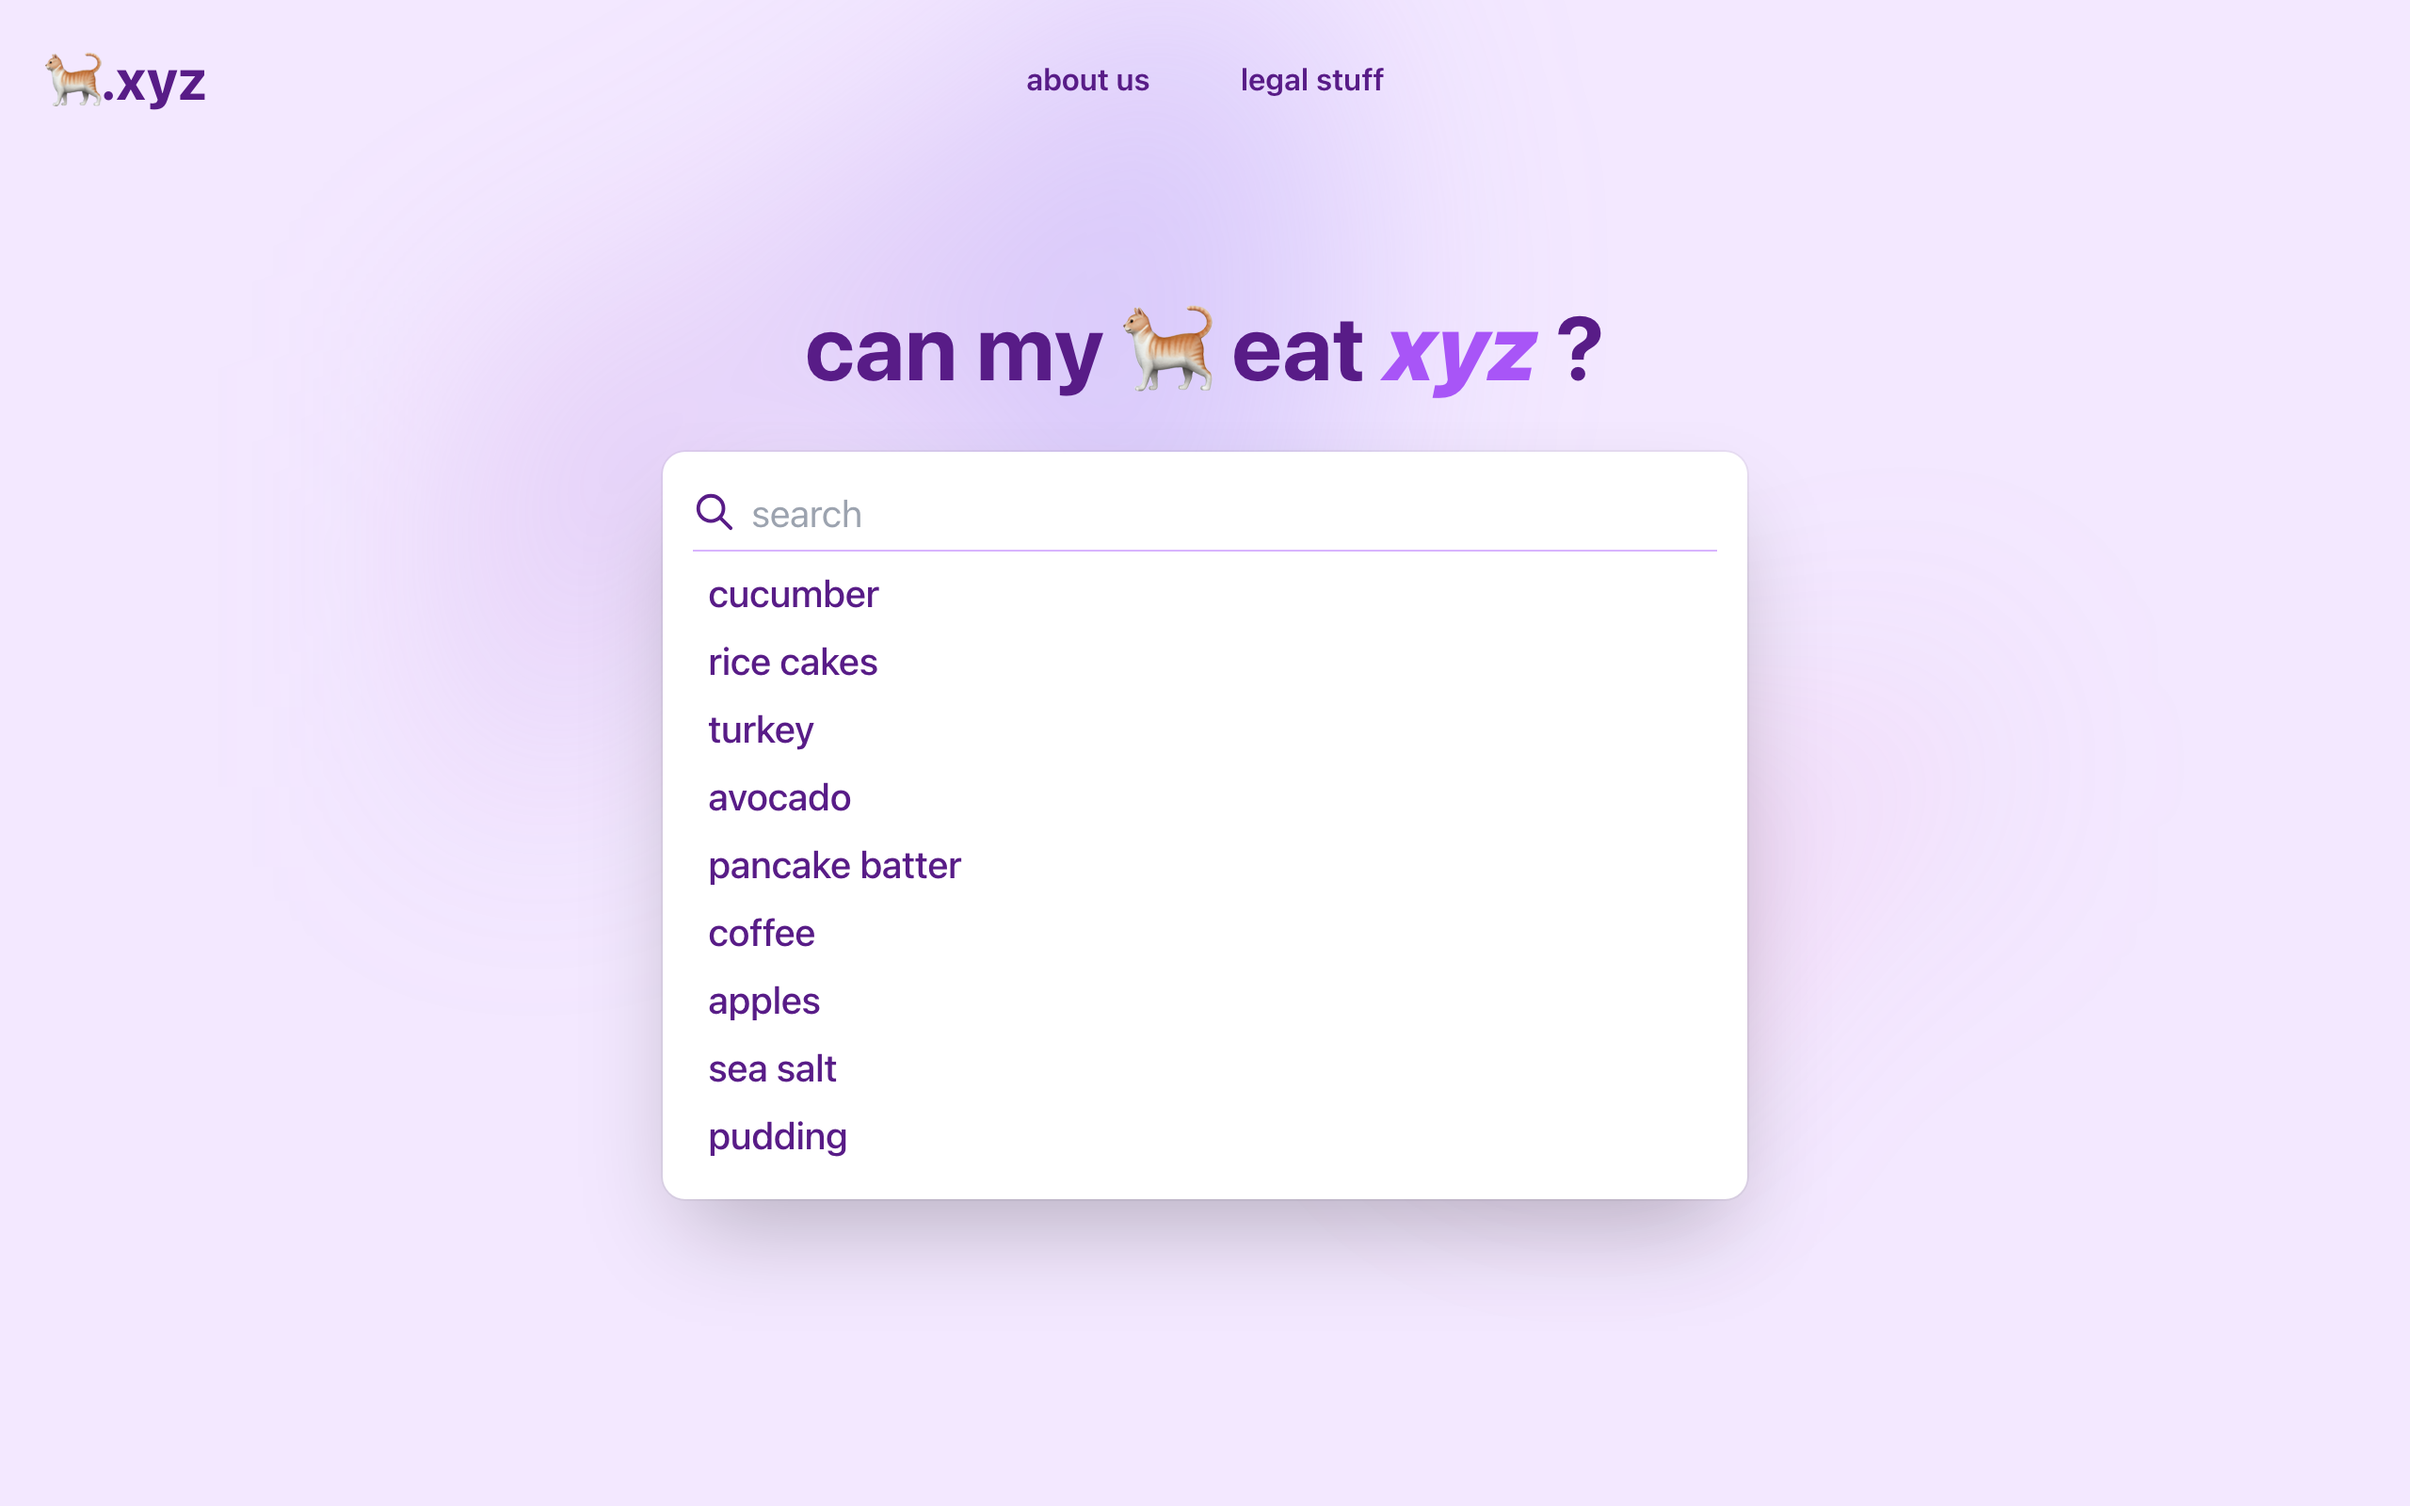
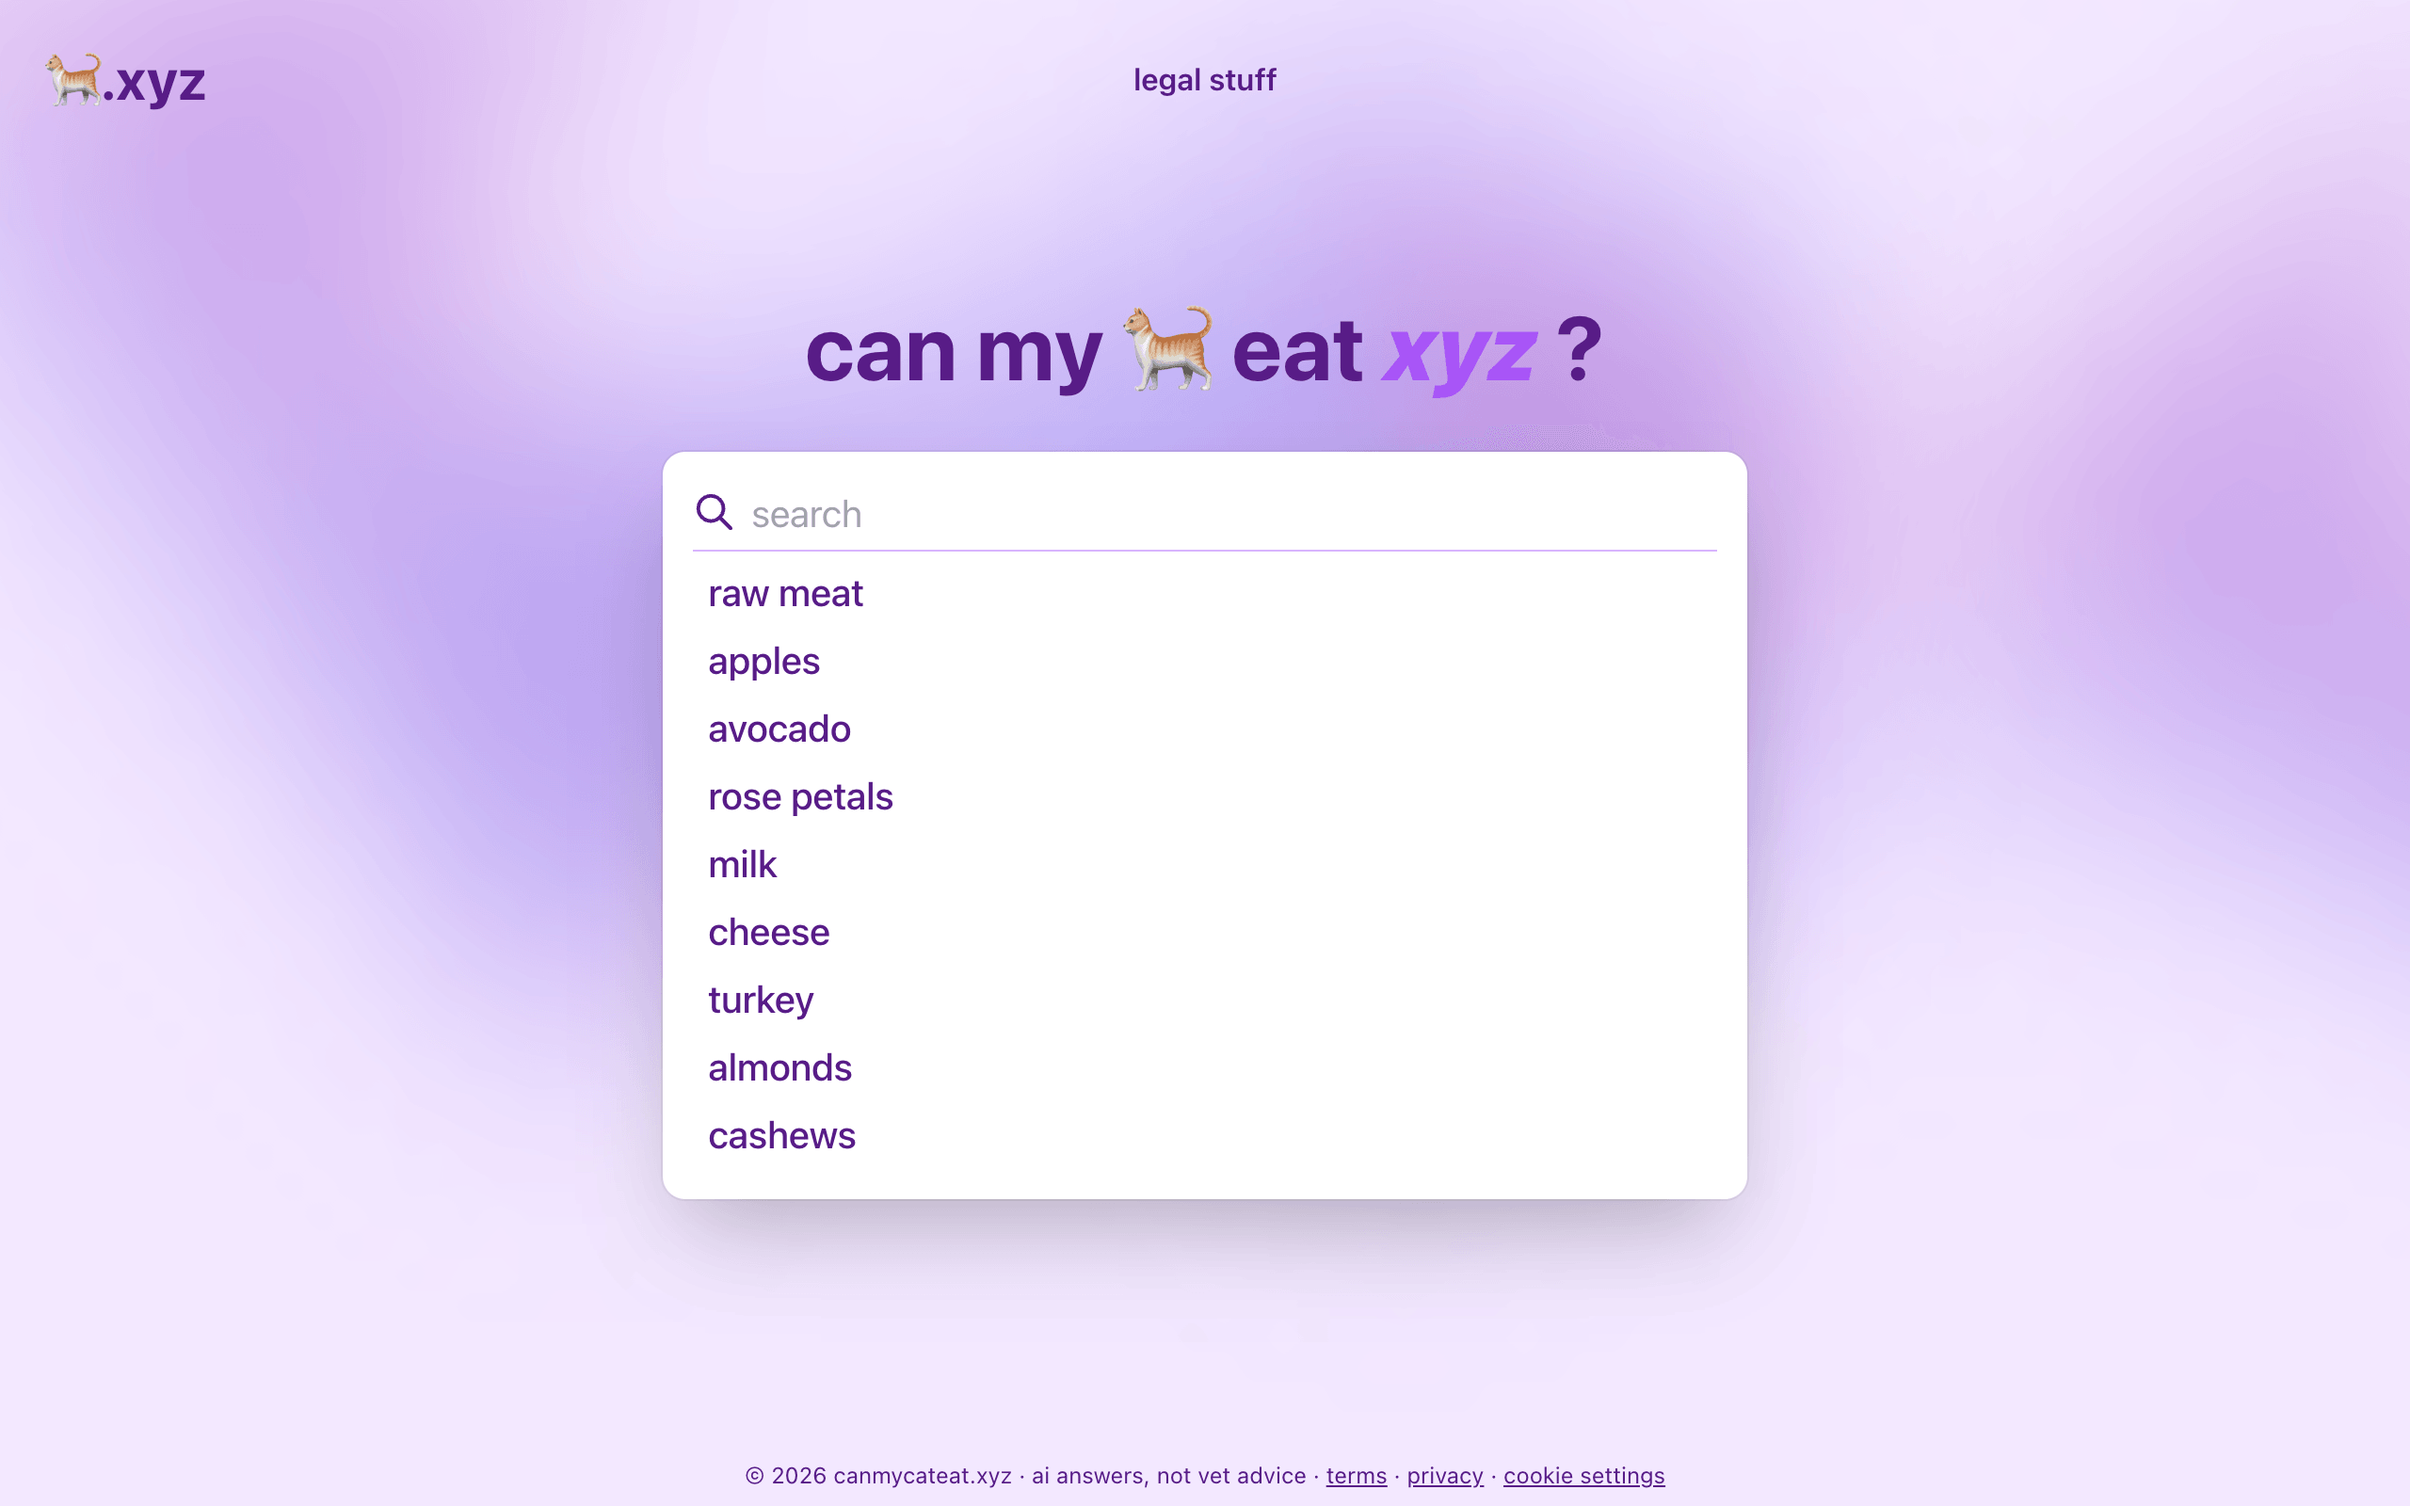
Refresh Can My Cat Eat XYZ screenshot and write-up
Rewrite to match the live app: Gemini instead of OpenAI, fixed answers
for known cat toxins, Firebase answer cache, per-food URLs, and the
AI/vet disclaimers and consent-gated analytics.

diff --git a/src/content/projects/can-my-cat-eat-xyz.md b/src/content/projects/can-my-cat-eat-xyz.md
@@ -1,7 +1,7 @@
 ---
 title: "Can My Cat Eat XYZ"
-description: "A cat nutrition search engine: type any food and get a straight yes-or-no answer with the reasoning, powered by OpenAI behind a serverless API."
-techStack: ["React", "Tailwind CSS", "OpenAI API", "Vercel Functions", "Firebase"]
+description: "Type any food and get a straight yes-or-no answer on whether your cat can eat it, with the reasoning. Known cat toxins get fixed, vetted answers; everything else comes from Gemini, cached in Firebase."
+techStack: ["React", "Tailwind CSS", "Gemini API", "Vercel Functions", "Firebase"]
 liveUrl: "https://can-my-cat-eat-xyz-psi.vercel.app"
 repoUrl: "https://github.com/justin-notarfrancesco/can-my-cat-eat-xyz"
 image: "/projects/can-my-cat-eat-xyz.png"
@@ -15,17 +15,27 @@ order: 4
 ## Overview
 
 Cat owners google this constantly and get a page of ads before an answer. Can My Cat
-Eat XYZ does one thing: you type a food, and the answer comes back starting with "Yes."
-or "No.", followed by two or three sentences of why.
+Eat XYZ does one thing: you type a food, and you get "yep" or "nope" followed by two or
+three sentences of why. Every food has its own shareable URL, so a link to /grapes
+is the answer.
 
 ## What I built
 
-- A single-purpose search UI in React and Tailwind that gets you from question to
-  answer in one input field.
-- A Vercel serverless function wrapping the OpenAI Responses API, so the API key stays
-  server-side and never ships to the browser.
-- A constrained prompt that forces the yes/no-first format and returns a graceful
-  "try a different food" when the question doesn't make sense.
+- A single-purpose search UI in React and Tailwind CSS: one input, a list of suggested
+  foods, and an answer page for each food.
+- A Vercel serverless function wrapping Google's Gemini API, so the API key stays
+  server-side and never ships to the browser. A constrained prompt forces the
+  yes/no-first format and returns a graceful "try a different food" when the question
+  doesn't make sense.
+- Fixed answers for well-known cat toxins (lilies, onions and garlic, grapes, chocolate,
+  caffeine, alcohol, xylitol, human painkillers, antifreeze), matched before the model is
+  ever asked, so the most dangerous questions never depend on an AI getting it right.
+- A Firebase Realtime Database cache of model answers, written only from the server and
+  capped with a timeout so a cache outage falls back to the model instead of hanging the
+  search.
+- Guardrails for an AI answer about pets: an "AI-generated, not veterinary advice" note
+  and the ASPCA Poison Control number under every answer, full terms and privacy pages,
+  and analytics that load only after cookie consent.
 
 ## Outcome
 
